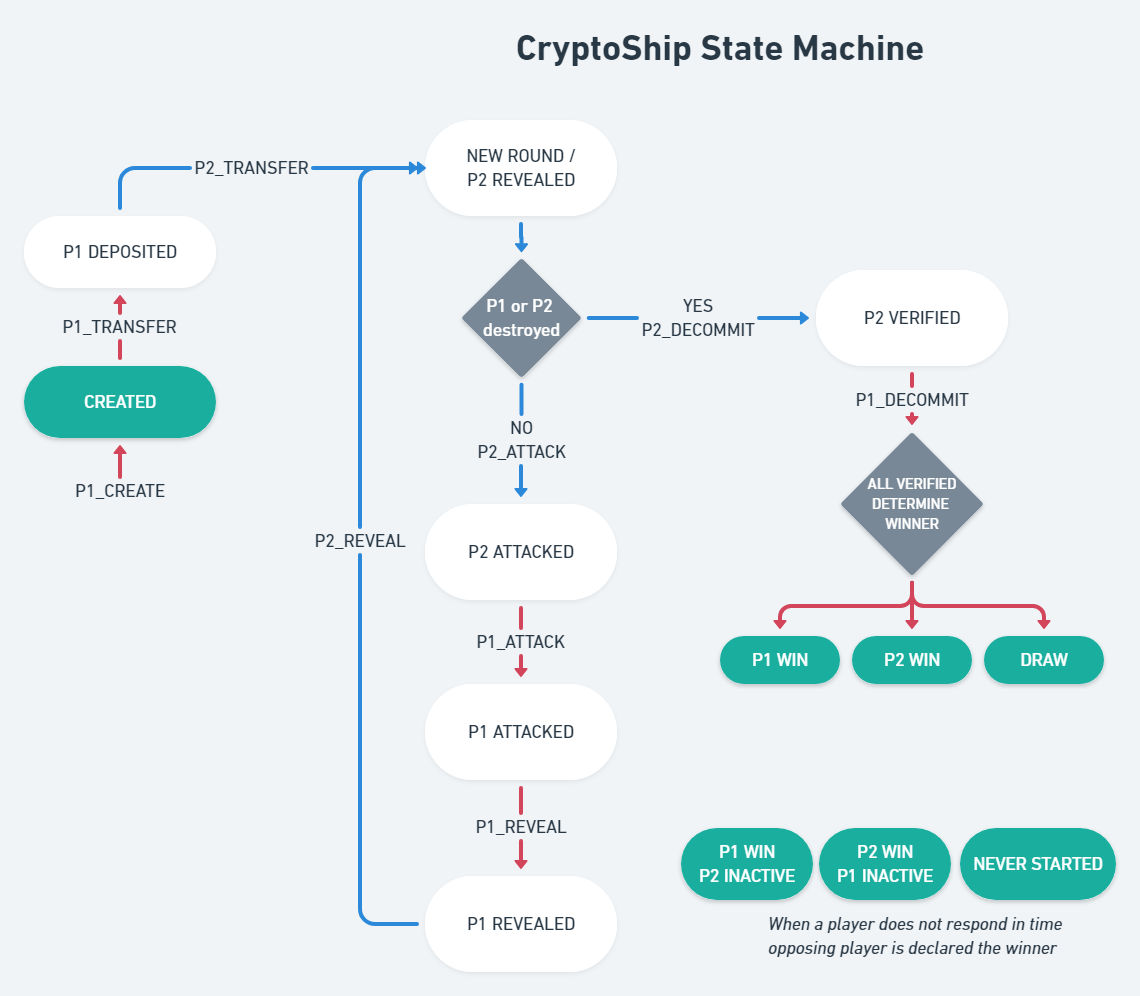
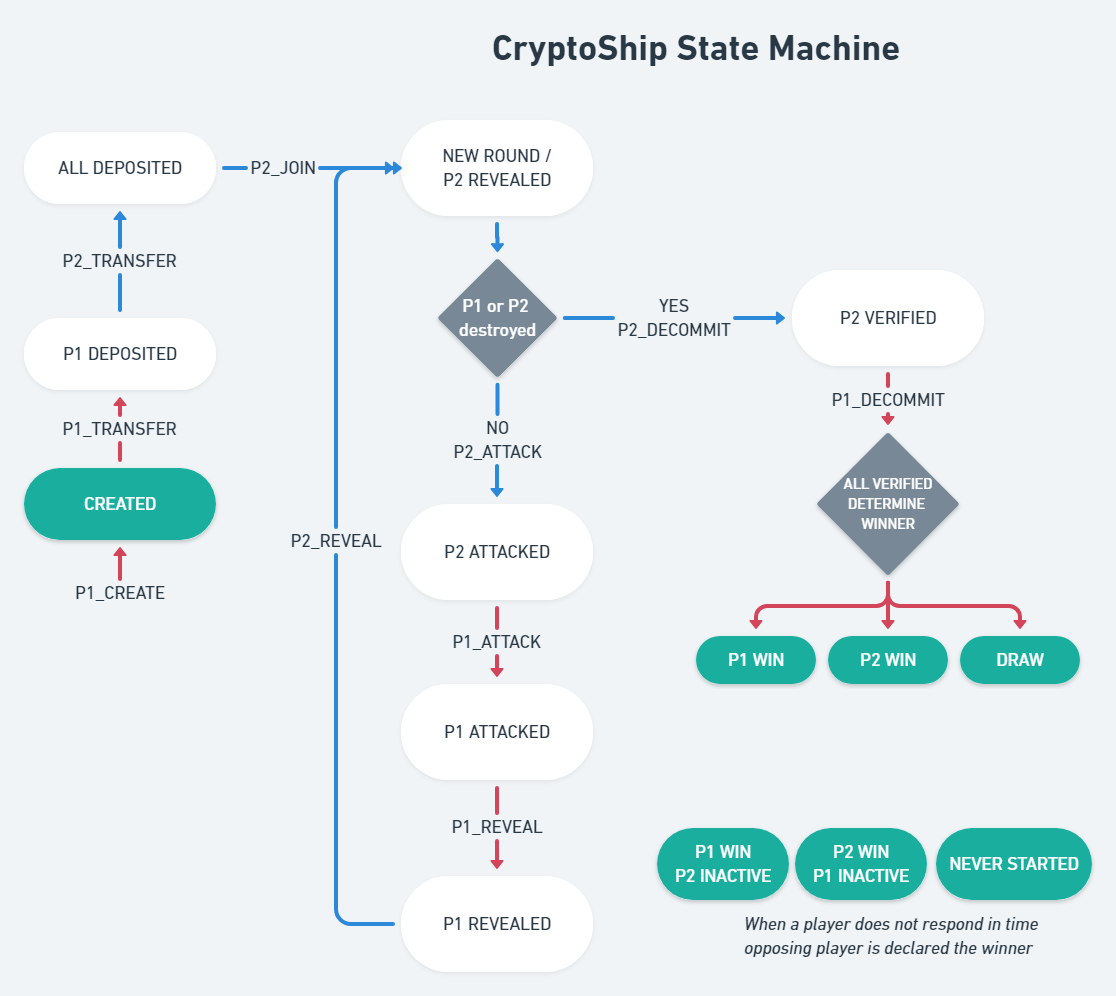
:sparkles: Implement commit logic

diff --git a/tests/example_game.test.js b/tests/example_game.test.js
@@ -1,10 +1,19 @@
 const { api } = require(`../config`)
 const { sendTransaction, getErrorDetail } = require(`../utils`)
+const { createSeed, createCommitment } = require(`./utils`)
 
 const { CONTRACT_ACCOUNT } = process.env
 
 // running three actions sometimes goes beyond default 5s timeout
 jest.setTimeout(20000)
+
+const p1ShipIndexes = [2, 3, 4]
+const p1Seed = createSeed(p1ShipIndexes)
+const p1Commitment = createCommitment(p1Seed)
+
+const p2ShipIndexes = [21, 20, 19]
+const p2Seed = createSeed(p2ShipIndexes)
+const p2Commitment = createCommitment(p2Seed)
 
 const getLatestGame = async () =>
     api.rpc
@@ -43,6 +52,7 @@ describe(`contract`, () => {
                     data: {
                         player: `test1`,
                         quantity: `0.1000 EOS`,
+                        commitment: p1Commitment,
                     },
                 },
                 {
@@ -57,8 +67,6 @@ describe(`contract`, () => {
                     },
                 },
             ])
-
-            // round 1
             result = await sendTransaction([
                 {
                     account: `eosio.token`,
@@ -71,6 +79,19 @@ describe(`contract`, () => {
                         memo: `${gameId}`,
                     },
                 },
+                {
+                    name: `join`,
+                    actor: `test2`,
+                    data: {
+                        player: `test2`,
+                        game_id: gameId,
+                        commitment: p2Commitment,
+                    },
+                },
+            ])
+
+            // round 1
+            result = await sendTransaction([
                 {
                     name: `attack`,
                     actor: `test2`,
@@ -152,7 +173,7 @@ describe(`contract`, () => {
                     data: {
                         player: `test2`,
                         game_id: gameId,
-                        attack_responses: [2],
+                        attack_responses: [4],
                     },
                 },
             ])

diff --git a/tests/utils.js b/tests/utils.js
@@ -1,0 +1,32 @@
+const crypto = require(`crypto`)
+
+function decimalToHex(d, padding = 2) {
+    let hex = Number(d).toString(16)
+
+    while (hex.length < padding) {
+        hex = `0${hex}`
+    }
+
+    return hex
+}
+
+function createSeed(shipIndexes) {
+    const shipIndexesHex = shipIndexes.map(v => decimalToHex(v)).join(``)
+    console.log(shipIndexesHex)
+    // pad it with random bytes so it fits into 256 bit checksum type
+    const randomBytes = crypto.randomBytes(32 - shipIndexesHex.length / 2)
+    return `${shipIndexesHex}${randomBytes.toString(`hex`)}`
+}
+
+function createCommitment(seed) {
+    // sha256 hash p1's message and save it in commitment
+    const hash = crypto.createHash(`sha256`)
+    hash.update(seed)
+    const commitment = hash.digest(`hex`)
+    return commitment
+}
+
+module.exports = {
+    createSeed,
+    createCommitment,
+}

diff --git a/contract/cryptoship.cpp b/contract/cryptoship.cpp
@@ -13,14 +13,14 @@ void cryptoship::init()
 }
 
 // create just "opens" the game by allocating and paying for RAM
-void cryptoship::create(name player, const asset quantity)
+void cryptoship::create(name player, const asset quantity, const eosio::checksum256& commitment)
 {
     require_auth(player);
     // any step between 0.1 and 100 EOS
     eosio_assert(quantity.amount == 1E3 || quantity.amount == 1E4 || quantity.amount == 1E5 || quantity.amount == 1E6, "Must pay any of 0.1 / 1.0 / 10.0 / 100.0 EOS");
 
     // default constructor initializes game data correctly
-    fsm::automaton machine;
+    fsm::automaton machine(commitment);
     // make player pay for RAM
     games.emplace(player, [&](game &g) {
         // auto-increment key
@@ -32,7 +32,22 @@ void cryptoship::create(name player, const asset quantity)
     });
 }
 
-void cryptoship::create_game_deposit(name player, const asset &quantity)
+void cryptoship::join(eosio::name player, uint64_t game_id, const eosio::checksum256& commitment) {
+    require_auth(player);
+
+    auto game_itr = get_game(game_id);
+    assert_player_in_game(*game_itr, player);
+
+    fsm::automaton machine(game_itr->game_data);
+    machine.join(commitment);
+
+    games.modify(game_itr, game_itr->player1, [&](auto &g) {
+        g.expires_at = time_point_sec(now() + EXPIRE_TURN);
+        g.game_data = machine.data;
+    });
+}
+
+void cryptoship::p1_deposit(name player, const asset &quantity)
 {
     require_auth(player);
     // this action should be called in a transaction after the "create" action
@@ -45,7 +60,7 @@ void cryptoship::create_game_deposit(name player, const asset &quantity)
     eosio_assert(latest_game->bet_amount_per_player == quantity, "game has a different bet amount");
 
     fsm::automaton machine(latest_game->game_data);
-    machine.create_game_deposit();
+    machine.p1_deposit();
 
     games.modify(latest_game, player, [&](game &g) {
         g.expires_at = time_point_sec(now() + EXPIRE_TURN);
@@ -53,7 +68,7 @@ void cryptoship::create_game_deposit(name player, const asset &quantity)
     });
 }
 
-void cryptoship::join_game(name player, uint64_t game_id, const asset &quantity)
+void cryptoship::p2_deposit(name player, uint64_t game_id, const asset &quantity)
 {
     require_auth(player);
 
@@ -62,7 +77,7 @@ void cryptoship::join_game(name player, uint64_t game_id, const asset &quantity)
     eosio_assert(game->bet_amount_per_player == quantity, "game has a different bet amount");
 
     fsm::automaton machine(game->game_data);
-    machine.join_game();
+    machine.p2_deposit();
 
     // cannot make second player pay for updates as this is in a require_recipient call from transfer
     games.modify(game, game->player1, [&](auto &g) {
@@ -87,12 +102,12 @@ void cryptoship::transfer(name from, name to, const asset& quantity, string memo
 
     if (memo == "create")
     {
-        create_game_deposit(from, quantity);
+        p1_deposit(from, quantity);
     }
     else
     {
         uint64_t game_id = std::stoull(memo);
-        join_game(from, game_id, quantity);
+        p2_deposit(from, game_id, quantity);
     }
 }
 
@@ -147,7 +162,7 @@ extern "C" void apply(uint64_t receiver, uint64_t code, uint64_t action)
         switch (action)
         {
             EOSIO_DISPATCH_HELPER(cryptoship,
-                                  (create)(reveal)(attack)(init)(cleanup)
+                                  (create)(join)(reveal)(attack)(init)(cleanup)
 #ifndef PRODUCTION
                                       (testreset)
 #endif

diff --git a/contract/fsm/fsm.hpp b/contract/fsm/fsm.hpp
@@ -22,7 +22,8 @@ enum state : uint8_t
     
     // game over game states
     CREATED,
-    DEPOSITED,
+    P1_DEPOSITED,
+    ALL_DEPOSITED,
     // winning states
     P1_WIN,
     P2_WIN,
@@ -35,7 +36,9 @@ enum state : uint8_t
 
 struct game_data
 {
+    // default constructor needed for multi_index default initialization
     game_data() : board1(), board2(), state(CREATED) {}
+    game_data(const eosio::checksum256& commitment) : board1(commitment), board2(), state(CREATED) {}
     // is used as state struct, but cannot be serialized by EOS
     uint8_t state;
     logic::board board1;
@@ -47,13 +50,14 @@ struct game_data
 class automaton
 {
   public:
-    automaton()
-        : data() {}
+    automaton(const eosio::checksum256& commitment)
+        : data(commitment) {}
     automaton(const game_data &gd)
         : data(gd) {}
 
-    void join_game();
-    void create_game_deposit();
+    void p1_deposit();
+    void p2_deposit();
+    void join(const eosio::checksum256& commitment);
     void reveal(bool is_player1, const std::vector<uint8_t> &attack_responses);
     void attack(bool is_player1, const std::vector<uint8_t> &attacks);
 

diff --git a/contract/cryptoship.hpp b/contract/cryptoship.hpp
@@ -71,14 +71,15 @@ public:
   ACTION testreset();
 #endif
   ACTION init();
-  ACTION create(eosio::name player, const eosio::asset quantity);
+  ACTION create(eosio::name player, const eosio::asset quantity, const eosio::checksum256& commitment);
+  ACTION join(eosio::name player, uint64_t game_id, const eosio::checksum256& commitment);
   ACTION cleanup();
   ACTION reveal(uint64_t game_id, eosio::name player, const std::vector<uint8_t> &attack_responses);
   ACTION attack(uint64_t game_id, eosio::name player, const std::vector<uint8_t> &attacks);
 
   void transfer(eosio::name from, eosio::name to, const eosio::asset &quantity, std::string memo);
-  void create_game_deposit(eosio::name player, const eosio::asset &quantity);
-  void join_game(eosio::name player, uint64_t game_id, const eosio::asset &quantity);
+  void p1_deposit(eosio::name player, const eosio::asset &quantity);
+  void p2_deposit(eosio::name player, uint64_t game_id, const eosio::asset &quantity);
 
   games_t games;
 };

diff --git a/contract/fsm/fsm.cpp b/contract/fsm/fsm.cpp
@@ -3,16 +3,24 @@
 
 using namespace fsm;
 
-void automaton::join_game()
+
+void automaton::p1_deposit()
 {
-    eosio_assert(data.state == DEPOSITED, "game has already started");
-    data.state = P2_REVEALED;
+    eosio_assert(data.state == CREATED, "player1 funds already deposited");
+    data.state = P1_DEPOSITED;
 }
 
-void automaton::create_game_deposit()
+void automaton::p2_deposit()
 {
-    eosio_assert(data.state == CREATED, "game has already started");
-    data.state = DEPOSITED;
+    eosio_assert(data.state == P1_DEPOSITED, "player2 cannot deposit now");
+    data.state = ALL_DEPOSITED;
+}
+
+void automaton::join(const eosio::checksum256& commitment)
+{
+    eosio_assert(data.state == ALL_DEPOSITED, "player2 needs to deposit first or game already started");
+    data.board2.commitment = commitment;
+    data.state = P2_REVEALED;
 }
 
 void automaton::reveal(bool is_player1, const std::vector<uint8_t> &attack_responses) {
